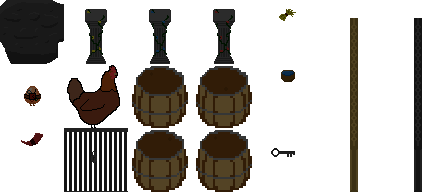
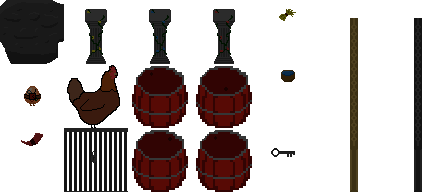
particles y objetos retocados

Changed region(s): [[0.2812, 0.7812, 0.5625, 1.0], [0.2812, 0.4375, 0.5625, 0.6562]]

diff --git a/Game/Source/Particles.cpp b/Game/Source/Particles.cpp
@@ -66,12 +66,16 @@ void Particle::update()
 
 void Particle::render()
 {
+}
+
+void Particle::render()
+{
     // Render the particle using our draw function (e.g., drawCircle or drawQuad)
     // with the current position (x, y), size (PARTICLE_SIZE), and color (r, g, b).
     // The fading effect can be achieved by adjusting the alpha value based on the age and FADE_DELAY.
     int alpha = 255 - (age * 255) / FADE_DELAY;
-    app->render->DrawCircle(1, 1, 1, 255, 255, 255);
-    // drawCircle(x, y, PARTICLE_SIZE, r, g, b, alpha);
+    /*app->render->DrawCircle(x, y1, r1, 255, 255, 255);*/
+    app->render->DrawCircle(x, y, PARTICLE_SIZE, r, g, b, alpha);
     // or
     // drawQuad(x, y, PARTICLE_SIZE, PARTICLE_SIZE, r, g, b, alpha);
 }
